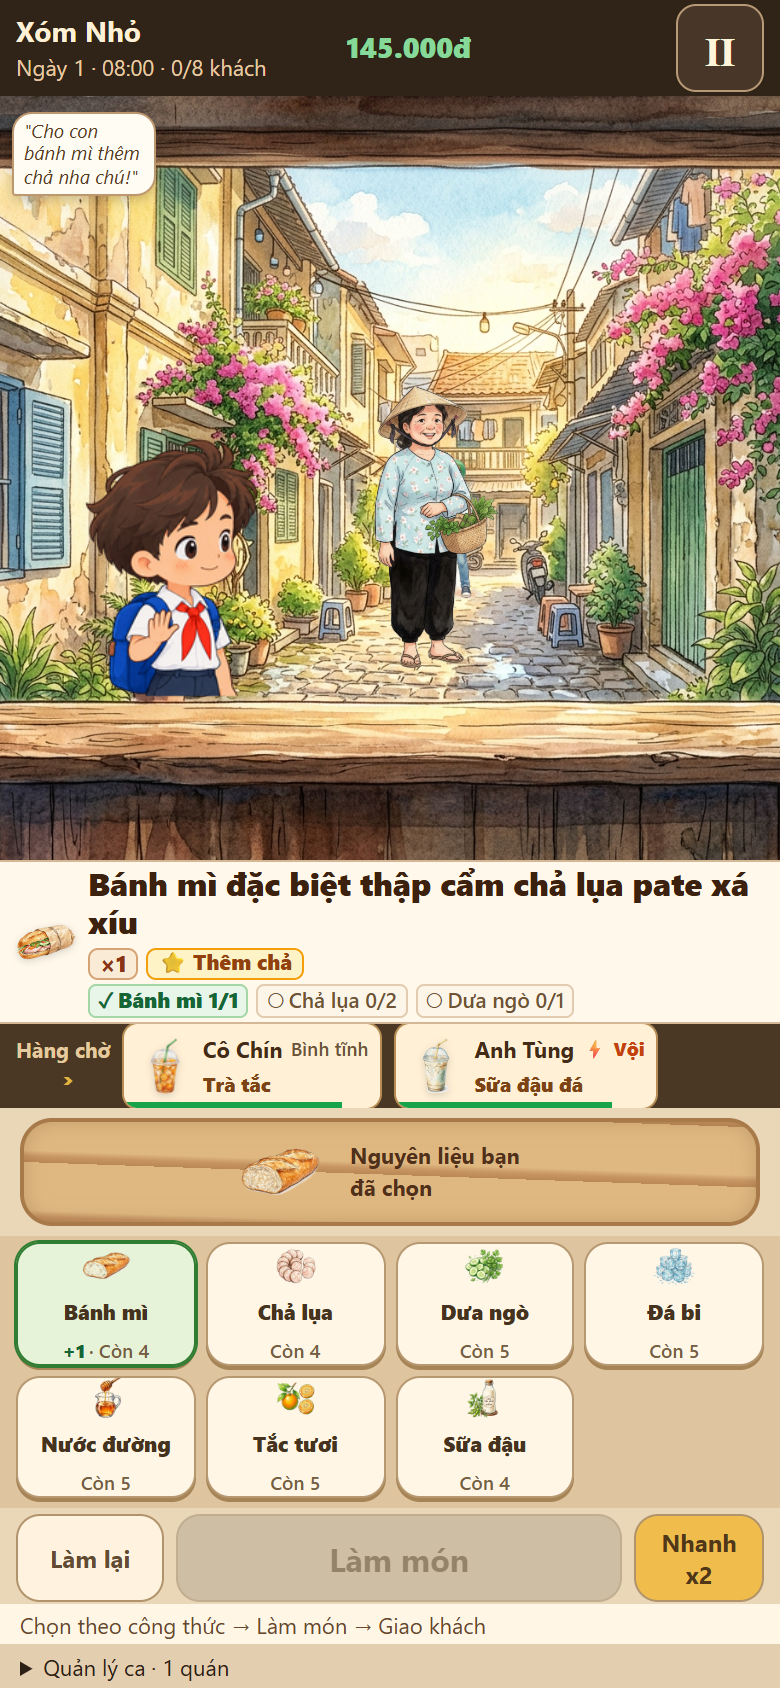
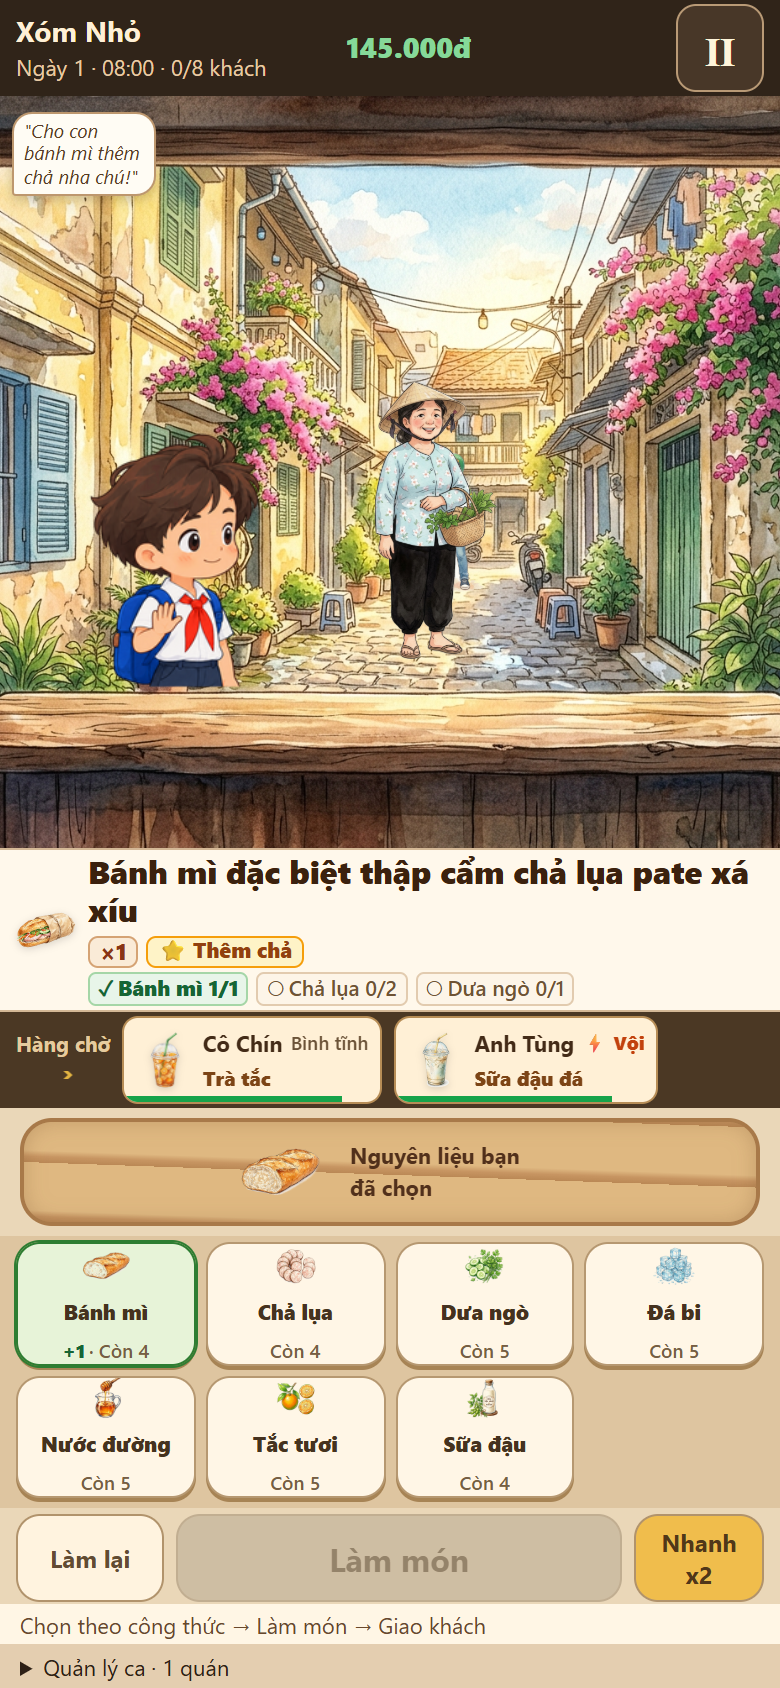
fix(mobile): standardize 44x44 touch targets, live verify bread & drink orders, and propose consistent Co Chin art

Changed region(s): [[0.0, 0.0616, 1.0, 0.7085], [0.6154, 0.0924, 0.6462, 0.1232]]

diff --git a/game/style.css b/game/style.css
@@ -2633,7 +2633,7 @@ button:focus-visible, [role=button]:focus-visible { outline: 3px solid #0e7490; 
 
 /* Hands-on mobile kitchen: all cooking controls share the visible viewport. */
 #app[data-screen="SHOP"] { height: 100dvh; min-height: 0; overflow: hidden; }
-.play-screen { height:100%; display:grid; grid-template-rows:48px minmax(200px,1fr) auto 42px 64px 136px 48px 20px 22px; gap:0; background:#ead7b8; padding-bottom:env(safe-area-inset-bottom); }
+.play-screen { height:100%; display:grid; grid-template-rows:48px minmax(200px,1fr) auto 48px 64px 136px 48px 20px 22px; gap:0; background:#ead7b8; padding-bottom:env(safe-area-inset-bottom); }
 .play-header { display:flex; align-items:center; gap:6px; padding:4px 8px; background:#302419; color:#fff0d6; }
 .play-header>div { min-width:0; flex:1; }
 .play-header b { display:block; white-space:nowrap; overflow:hidden; text-overflow:ellipsis; font-size:14px; }
@@ -2691,7 +2691,7 @@ button:focus-visible, [role=button]:focus-visible { outline: 3px solid #0e7490; 
 .market-screen,.menu-screen{padding:10px 12px}.capacity-banner{padding:10px;margin-bottom:8px}.capacity-header{font-size:12px}.btn-bundle{padding:10px;font-size:13px}.btn-bundle small{font-size:10px;line-height:1.3}.market-list{display:grid;grid-template-columns:1fr 1fr;gap:7px}.market-item-card{display:flex;flex-wrap:wrap;padding:6px;gap:4px;border-radius:12px;min-width:0}.market-item-img{width:42px;height:36px;object-fit:contain}.market-item-info{flex:1;min-width:75px;gap:0}.market-item-info strong{font-size:12px}.market-item-info span{font-size:11px}.market-item-info small{display:none}.stepper{width:100%;justify-content:space-between;gap:2px}.step-btn{width:44px;height:44px}.market-checkout-dock{padding:8px 0;position:sticky;bottom:0;background:#fbf6ee}.checkout-summary{font-size:12px;margin-bottom:6px}.market-note{font-size:11px}.menu-intro{margin:0 0 8px}.menu-intro h3{font-size:15px;margin:0}.menu-intro p{font-size:12px;margin:3px 0}
 .menu-card{padding:10px 12px;margin:0 0 10px;border-radius:14px;background:#fffcf5;border:1.5px solid #d5be9b}.menu-card.locked-dish{background:#f6efe2;border-style:dashed}.menu-card-top{display:flex;align-items:center;gap:10px;margin-bottom:6px}.menu-dish-thumb{width:44px;height:44px;object-fit:contain;flex-shrink:0;filter:drop-shadow(0 2px 3px rgba(0,0,0,0.12))}.menu-dish-identity{flex:1;min-width:0}.menu-toggle{display:flex;align-items:center;gap:6px;min-height:32px;cursor:pointer}.menu-toggle input{width:20px;height:20px;margin:0;cursor:pointer;flex-shrink:0}.menu-toggle strong{font-size:14px;font-weight:800;color:#3b2210}.cost-estimate{display:block;font-size:11px;color:#765b3c;margin-top:1px}.menu-lock-condition{padding:6px 10px;background:#f0e4cf;border:1px solid #d0bc9b;border-radius:8px;font-size:11px;font-weight:600;color:#754f24;margin:4px 0 6px}.price-tiers-row{display:flex;align-items:center;justify-content:space-between;margin:6px 0;gap:6px}.price-tier-label{font-size:11px;font-weight:600;color:#583c22}.price-tier-buttons{display:flex;gap:6px}.price-tier-btn{min-width:44px;min-height:44px;padding:6px 12px;border:1.5px solid #bba17b;border-radius:10px;background:#f6ebd8;color:#4e341b;font-weight:700;font-size:13px}.price-tier-btn.selected{background:#b44921;color:#ffffff;border-color:#7e2d17}.menu-margin-preview{font-size:11px;color:#216d3f;font-weight:600;margin-top:4px}.price-demand-hint{font-size:11px;color:#b45309;margin-top:3px}.opening-time-section{padding:8px;margin-top:8px}.opening-time-section label{font-size:12px}.time-btn{min-height:44px;padding:6px;font-size:12px}.opening-note{font-size:11px;margin:6px 0}.menu-footer{padding:8px 0}.btn-primary{min-height:48px;font-size:15px;padding:12px;border-radius:14px}.cover-tag{font-size:11px}.cover-desc{font-size:14px}.top-nav{min-height:54px}
 @keyframes ingredientDrop{from{transform:translateY(-12px);opacity:0}to{transform:translateY(0);opacity:1}}@keyframes cookSway{from{transform:translateX(-3px)}to{transform:translateX(3px)}}@keyframes reactBounce{50%{transform:translateY(-5px)}}
-@media(max-height:640px){.play-screen{grid-template-rows:46px minmax(200px,1fr) auto 44px 48px 124px 46px 16px 20px}.play-header{padding:2px 8px}.play-header b{font-size:13px}.play-header small{font-size:10px}.play-pause{width:44px;height:44px;font-size:19px}.active-order-strip{padding:2px 6px;min-height:38px;gap:1px}.order-strip-main{gap:5px}.order-strip-main .ticket-dish-img{width:26px;height:26px}.ticket-dish-name{font-size:16px;font-weight:800;line-height:1.15}.ticket-qty-pill{font-size:10.5px;padding:0 4px}.ticket-special-badge{font-size:10px;padding:0 4px}.active-order-strip .receipt-checklist{gap:3px}.receipt-item{font-size:10px;padding:0 3px}.queue-ticket{min-height:42px;height:42px;padding:1px 6px}.queue-dish-thumb{width:24px;height:24px}.queue-dish-name{font-size:10px;font-weight:800;text-overflow:clip}.cooking-board{margin:2px 8px;font-size:11px}.selected-art{height:38px}.selected-art img{height:34px;width:32px}.finished-dish{height:38px}.ingredient-tray{gap:3px;padding:2px 6px}.ingredient-button{padding:1px;min-height:44px}.ingredient-button img{height:19px}.ingredient-button b{font-size:10px;margin:0;line-height:1.1}.ingredient-button small{font-size:9px;height:13px;min-height:13px;line-height:13px}.cook-actions{padding:2px 8px 3px;gap:5px}.cook-actions button{min-height:44px}.play-status{font-size:10px;padding:1px 8px;line-height:16px}.play-options summary{height:20px;padding:2px 8px;font-size:10.5px}}
+@media(max-height:640px){.play-screen{grid-template-rows:46px minmax(200px,1fr) auto 46px 46px 124px 46px 16px 20px}.play-header{padding:2px 8px}.play-header b{font-size:13px}.play-header small{font-size:10px}.play-pause{width:44px;height:44px;font-size:19px}.active-order-strip{padding:2px 6px;min-height:38px;gap:1px}.order-strip-main{gap:5px}.order-strip-main .ticket-dish-img{width:26px;height:26px}.ticket-dish-name{font-size:16px;font-weight:800;line-height:1.15}.ticket-qty-pill{font-size:10.5px;padding:0 4px}.ticket-special-badge{font-size:10px;padding:0 4px}.active-order-strip .receipt-checklist{gap:3px}.receipt-item{font-size:10px;padding:0 3px}.queue-ticket{min-height:44px;height:44px;padding:1px 6px}.queue-dish-thumb{width:24px;height:24px}.queue-dish-name{font-size:10px;font-weight:800;text-overflow:clip}.cooking-board{margin:1px 8px;min-height:44px;font-size:11px}.selected-art{height:38px}.selected-art img{height:34px;width:32px}.finished-dish{height:38px}.ingredient-tray{gap:3px;padding:2px 6px}.ingredient-button{padding:1px;min-height:44px}.ingredient-button img{height:19px}.ingredient-button b{font-size:10px;margin:0;line-height:1.1}.ingredient-button small{font-size:9px;height:13px;min-height:13px;line-height:13px}.cook-actions{padding:2px 8px 3px;gap:5px}.cook-actions button{min-height:44px}.play-status{font-size:10px;padding:1px 8px;line-height:16px}.play-options summary{height:20px;padding:2px 8px;font-size:10.5px}}
 @media(prefers-reduced-motion:reduce){.selected-art img,.finished-dish,.is-cooking .selected-art,.play-customer.react{animation:none}}
 /* Town map and staffing overlay: provisional UI, no new generated art. */
 .empire-nav{display:flex;gap:8px;margin:10px 0}.empire-nav button{flex:1;min-height:44px;border:1px solid #b8986b;border-radius:12px;padding:8px;background:#eee0c8;color:#5b4129;font-weight:700;font-size:12px}.empire-backdrop{position:fixed;inset:0;background:#2c2419b8;z-index:220;display:flex;justify-content:center;align-items:center;padding:12px}.empire-panel{width:100%;max-width:460px;max-height:calc(100dvh - 24px);overflow:auto;border:2px solid #b6915c;border-radius:20px;background:#fcf3e0;padding:15px;box-shadow:0 10px 30px #201a1680}.empire-panel>header{display:flex;align-items:center;gap:8px;justify-content:space-between}.empire-panel h2{font-size:19px;margin:0}.empire-panel>header button{min-width:44px;min-height:44px;background:#ead8b8;border:1px solid #b3966b;border-radius:12px;font-size:24px}.panel-hint{font-size:12px;color:#77593a;margin:8px 0 12px}.town-map{display:grid;gap:12px;padding:12px;border-radius:18px;background:repeating-linear-gradient(0deg,#d5c9a5 0,#d5c9a5 35px,#e8ddbf 36px,#e8ddbf 42px)}.map-location{border:2px solid #b79c70;padding:12px;border-radius:16px;background:#fff6df;box-shadow:0 3px 0 #9b8965}.map-location.school{margin-left:18px}.map-location.office{margin-right:18px}.map-location.selected{border-color:#3c8051;background:#eaf3da}.map-location.locked{background:#e3dbc9;border-style:dashed}.map-location h3{font-size:16px;margin:4px 0}.map-location p{font-size:12px;margin:6px 0}.map-location small{display:block;font-size:11px;color:#715739}.map-location button{display:block;width:100%;min-height:44px;border:1px solid #a88b5f;border-radius:11px;background:#bc5a2e;color:#fff7e2;font-size:13px;font-weight:700;margin-top:8px}.map-location button:disabled{background:#b8a78b;color:#f5eddf}.map-metrics{display:flex;justify-content:space-between;gap:6px;font-size:12px}.staff-list{display:grid;gap:9px}.employee-card{border:1px solid #c1a77b;border-radius:14px;background:#fff9ed;padding:12px}.employee-card h3{font-size:14px;margin:0 0 7px}.employee-meters{display:flex;gap:8px;flex-wrap:wrap;font-size:11px;color:#7a5836}.employee-card small{font-size:11px}.employee-actions{display:flex;flex-wrap:wrap;gap:6px;margin-top:8px}.employee-actions button{min-height:44px;flex:1;min-width:100px;border:1px solid #b69a70;border-radius:9px;background:#f2dfbb;font-size:11px;color:#533a23}.employee-actions .release-staff{background:#f4ddd1;color:#8d3c27}.hire-grid{display:grid;grid-template-columns:1fr;gap:10px}.staff-role-card{border:1px solid #c8af88;border-radius:14px;background:#fffcf5;padding:12px;box-shadow:0 2px 5px rgba(0,0,0,0.05);display:flex;flex-direction:column;gap:5px}.staff-role-card.role-locked{background:#f5eedf;border-style:dashed}.role-card-header{display:flex;justify-content:space-between;align-items:center}.role-card-header h4{margin:0;font-size:15px;font-weight:800;color:#3b2210}.role-wage{font-size:12px;font-weight:700;color:#b44921;background:#faebd7;padding:2px 7px;border-radius:6px}.role-perk{margin:0;font-size:12px;color:#583d23;line-height:1.35}.role-status-row{font-size:11px}.role-tag.hired{color:#166534;font-weight:700}.role-tag.locked{color:#854d0e;font-weight:600}.role-tag.available{color:#1e40af;font-weight:600}.btn-hire{width:100%;min-height:44px;min-width:44px;border:1.5px solid #a8885b;border-radius:10px;background:#bc5a2e;color:#fff7e2;font-size:13px;font-weight:800;cursor:pointer;margin-top:2px}.btn-hire:disabled{background:#d3c4ad;color:#705d47;border-color:#bea98e;cursor:not-allowed;opacity:0.85}.branch-results{display:grid;gap:12px;margin-bottom:15px}.branch-results article{border:1px solid #cdb58a;border-radius:15px;background:#fff5df;padding:12px}.branch-results header{display:flex;justify-content:space-between;align-items:center}.branch-results h3{font-size:16px;margin:0 0 8px}.branch-results small,.branch-results p{font-size:12px}.branch-results h4{font-size:13px;margin:10px 0 5px}.branch-results summary{font-size:12px}
